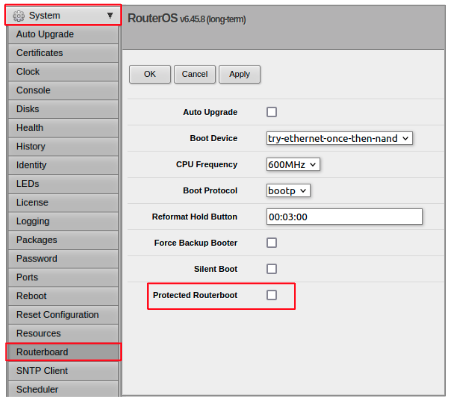
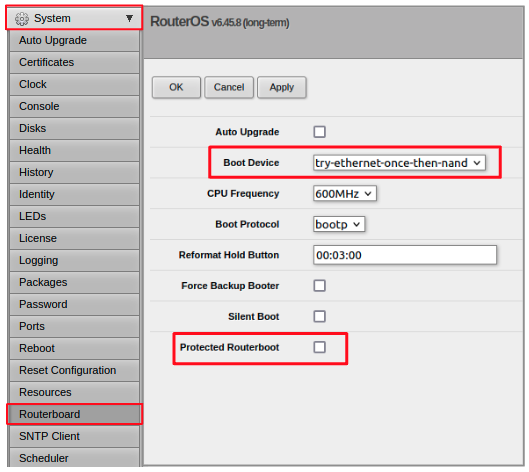
clarify mikrotik routerboot options

Changed region(s): [[0.0, 0.0, 1.0, 1.0], [0.3077, 0.6519, 0.6769, 0.8], [0.3385, 0.5926, 0.5231, 0.6222]]

diff --git a/arednGettingStarted/installing_firmware.rst b/arednGettingStarted/installing_firmware.rst
@@ -186,7 +186,7 @@ Mikrotik devices require a **two-part install** process: First, boot the correct
 
 Mikrotik devices have a built-in `PXE <https://en.wikipedia.org/wiki/Preboot_Execution_Environment>`_ *client* which allows them to download a boot image from an external source. You will need to install and configure a `PXE <https://en.wikipedia.org/wiki/Preboot_Execution_Environment>`_ *server* on your Windows computer. The example below uses *Tiny PXE*. For more information, see the **Tools for Your Computer** section above.
 
-For most Mikrotik devices the steps below will work without issue. However, if your Mikrotik device has "Protected Routerboot" enabled, then you will need to disable it before proceeding. Use the manufacturer's instructions to connect to your device and display the RouterOS web interface. Navigate to the *System > Routerboard* section and uncheck or deselect "Protected Routerboot" as shown in the example below, then click the *Apply* button. You should now be able to power down the device and continue with the steps in the AREDN |trade| firmware install checklist.
+For most Mikrotik devices the steps below will work without issue. However, if your Mikrotik device has "Protected Routerboot" enabled, then you will need to disable it before proceeding. Use the manufacturer's instructions to connect to your device and display the RouterOS web interface. Navigate to the *System > Routerboard* section. Verify that the *Boot Device* is set to ``try-ethernet-once-then-nand`` and uncheck or deselect ``Protected Routerboot`` as shown in the example below. Click the *Apply* button, then you should be able to power down the device and continue with the steps in the AREDN |trade| firmware install checklist.
 
 .. image:: _images/mikrotik-protectboot.png
   :alt: Uncheck Mikrotik Protected Boot
